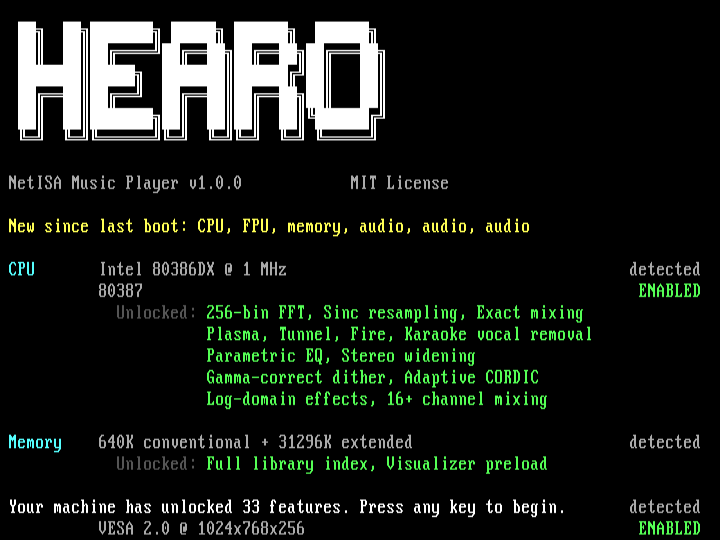
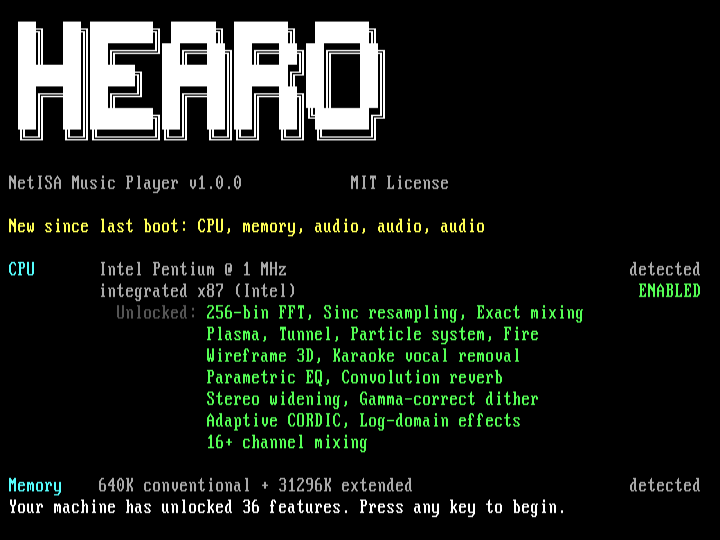
hearo: refresh captures, drop Pentium-classification bug from notes
Real CPU/FPU probes are live (commit 0137cb8 in NetISA repo). Maximum
tier now correctly identifies Intel Pentium with integrated x87 FPU,
and the Pentium-only unlocks (Convolution reverb, Particle system,
Wireframe 3D) appear in the boot screen unlock list. 36 of 67
features unlocked at the Maximum tier.

Tier-captures section note shrinks from "two known bugs" to "one":
the Standard tier SB Pro 2 probe miss is the only remaining
detection issue tracked for v1.0.1. The CPU classification bug is
gone.

diff --git a/hearo.html b/hearo.html
@@ -120,7 +120,7 @@
         </figure>
     </div>
 
-    <p>Two known v1.0 detection bugs visible in these captures. The Maximum tier reports 80386DX instead of Pentium because <code>cpu_eflags_can_toggle</code> (the EFLAGS bit-21 toggle test that distinguishes 486+ from Pentium+) is stubbed in v1.0; the FLAGS bit walk in <code>cpu_flag_test</code> can only climb past Stage 2 with that probe live. The Standard tier reports only PC Speaker even with Sound Blaster Pro 2 emulated, because the BLASTER environment variable parser plus the DSP probe sequence misses one of the SB Pro 2 paths under DOSBox-X's emulation. Both are tracked for v1.0.1.</p>
+    <p>One detection bug still visible: the Standard tier shows only PC Speaker even with Sound Blaster Pro 2 emulated and BLASTER set, because the SB DSP-3.x probe sequence misses one path under DOSBox-X. Tracked for v1.0.1.</p>
 
     <h2>Status</h2>
 
@@ -136,7 +136,7 @@
         <li><code>HEARO.CFG</code> reader/writer, <code>HEARO.HAL</code> persistent log.</li>
         <li>Six test programs. <code>TESTBIP</code> reports 13.4 bits sin precision against 1024 reference samples. <code>TESTCORD</code> shows monotonic precision improvement from 8 to 24 iterations. <code>TESTQUIR</code> shows the quire holding overflow that the naive 32-bit sum drops.</li>
         <li>Watcom <code>wmake</code> Makefile.</li>
-        <li>Real-iron probes staged in <code>src/platform/probes.c</code> (Watcom inline asm + <code>int86()</code> calls). Gated behind <code>-dHEARO_NOASM</code>; the synthetic-stub build is the current default. v1.0.1 drops the gate.</li>
+        <li>Real probes in <code>src/platform/probes.c</code>: Watcom <code>#pragma aux</code> with <code>.286</code> / <code>.386</code> / <code>.586</code> directives for FPU presence and EFLAGS toggle and CPUID, plus <code>int86()</code> calls for INT 10h/12h/2Fh/33h/67h. Default build now compiles them in. <code>HEARO_NOASM</code> gate stays for users who want synthetic stubs.</li>
         <li>DOSBox-X screenshot script in <code>hearo/scripts/</code>.</li>
     </ul>
 
